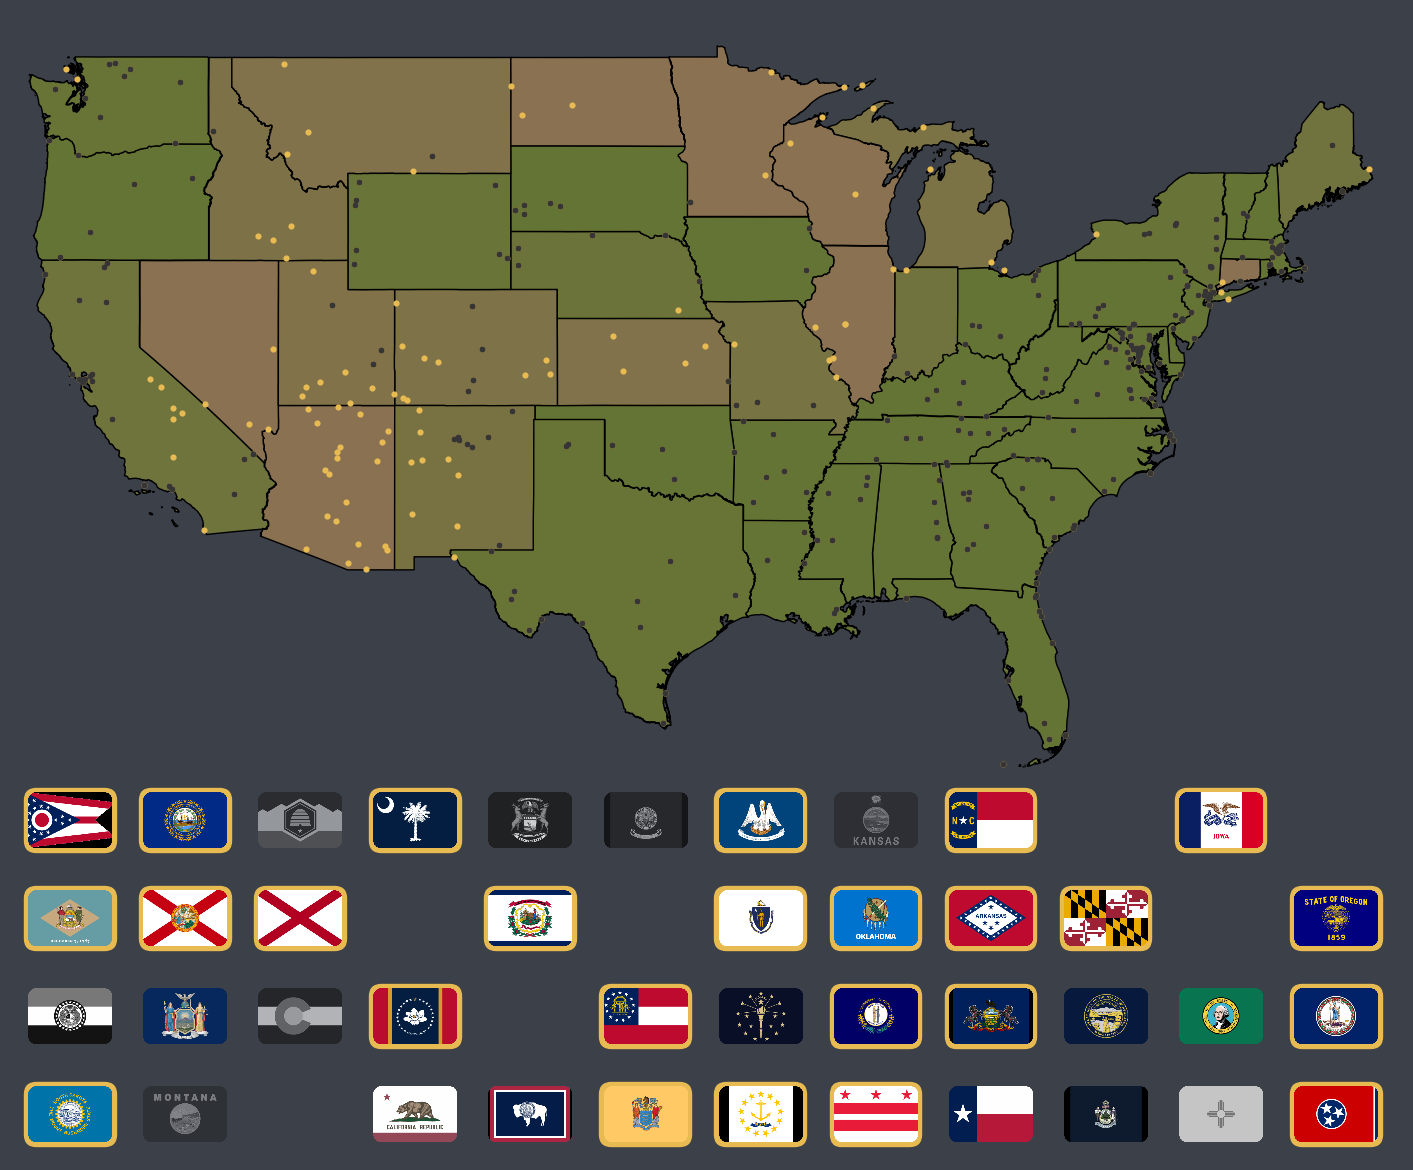
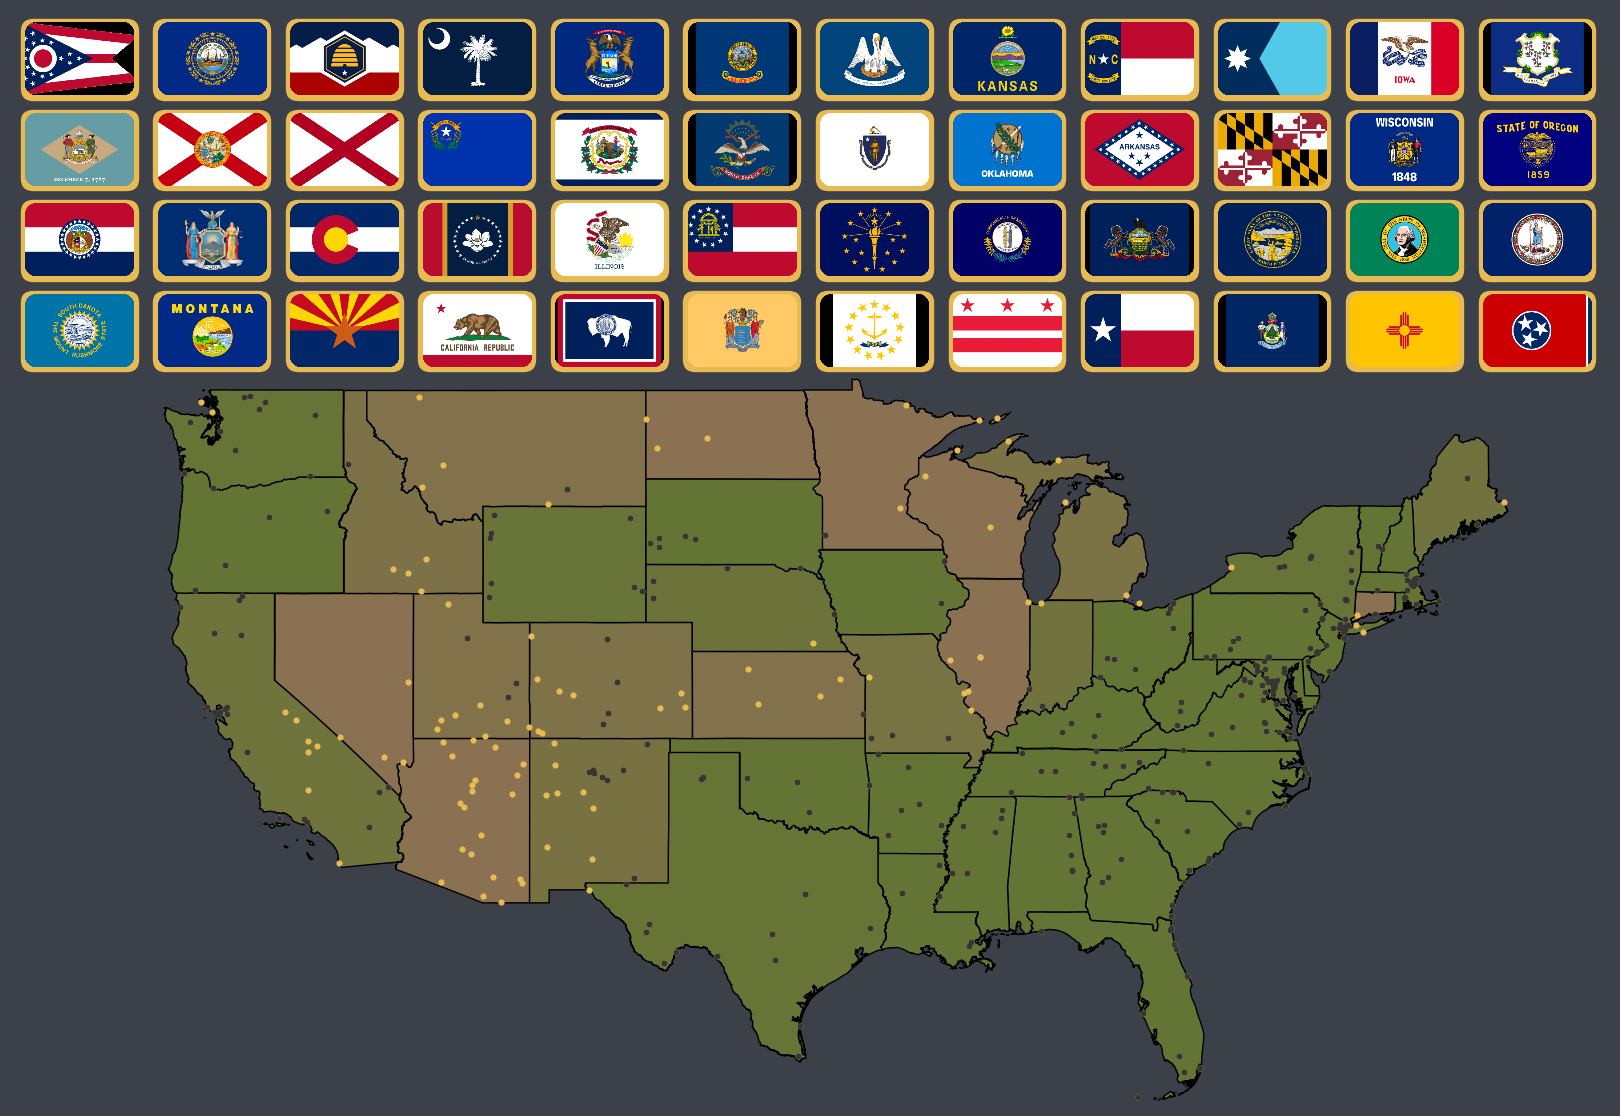
update small map

diff --git a/main.py b/main.py
@@ -10,16 +10,16 @@ from utils.file_utils import ensure_directory_exists
 
 
 # Set global variables, directories for map creation and site locations
-SCALE = 5
+SCALE = 1
 
 # US National Park Global Variables
-#PATH = "us"
+PATH = "us"
 
 # Germany Global Variables
 #PATH = "de"
 
 # Europe Global Variables
-PATH = "eu"
+#PATH = "eu"
 
 # Ensure output folders exist
 ensure_directory_exists("plots/temp")
@@ -46,13 +46,13 @@ plot_manager = PlotManager(
 
 # Add first plot
 current_date = points_sorted['date'].min() - datetime.timedelta(days=1)
-plot_manager.generate_plot(current_date, points_sorted.iloc[0], copy=True)
+#plot_manager.generate_plot(current_date, points_sorted.iloc[0], copy=True)
 
 # Plot all dates
 for _, row in points_sorted.iterrows():
     current_date = row['date']
     if pd.notna(current_date) and current_date != old_date:
-        plot_manager.generate_plot(current_date, row)
+        #plot_manager.generate_plot(current_date, row)
         old_date = current_date
 
 # Create Last Plot

diff --git a/plotting/plotting_manager.py b/plotting/plotting_manager.py
@@ -121,7 +121,7 @@ class PlotManager:
         for i, file in enumerate(png_files):
             frameon = False
 
-            ratio = self.ratios[file[:2]]
+            ratio = 1 #self.ratios[file[:2]]
             if ratio == 1:
                 frameon = True
 
